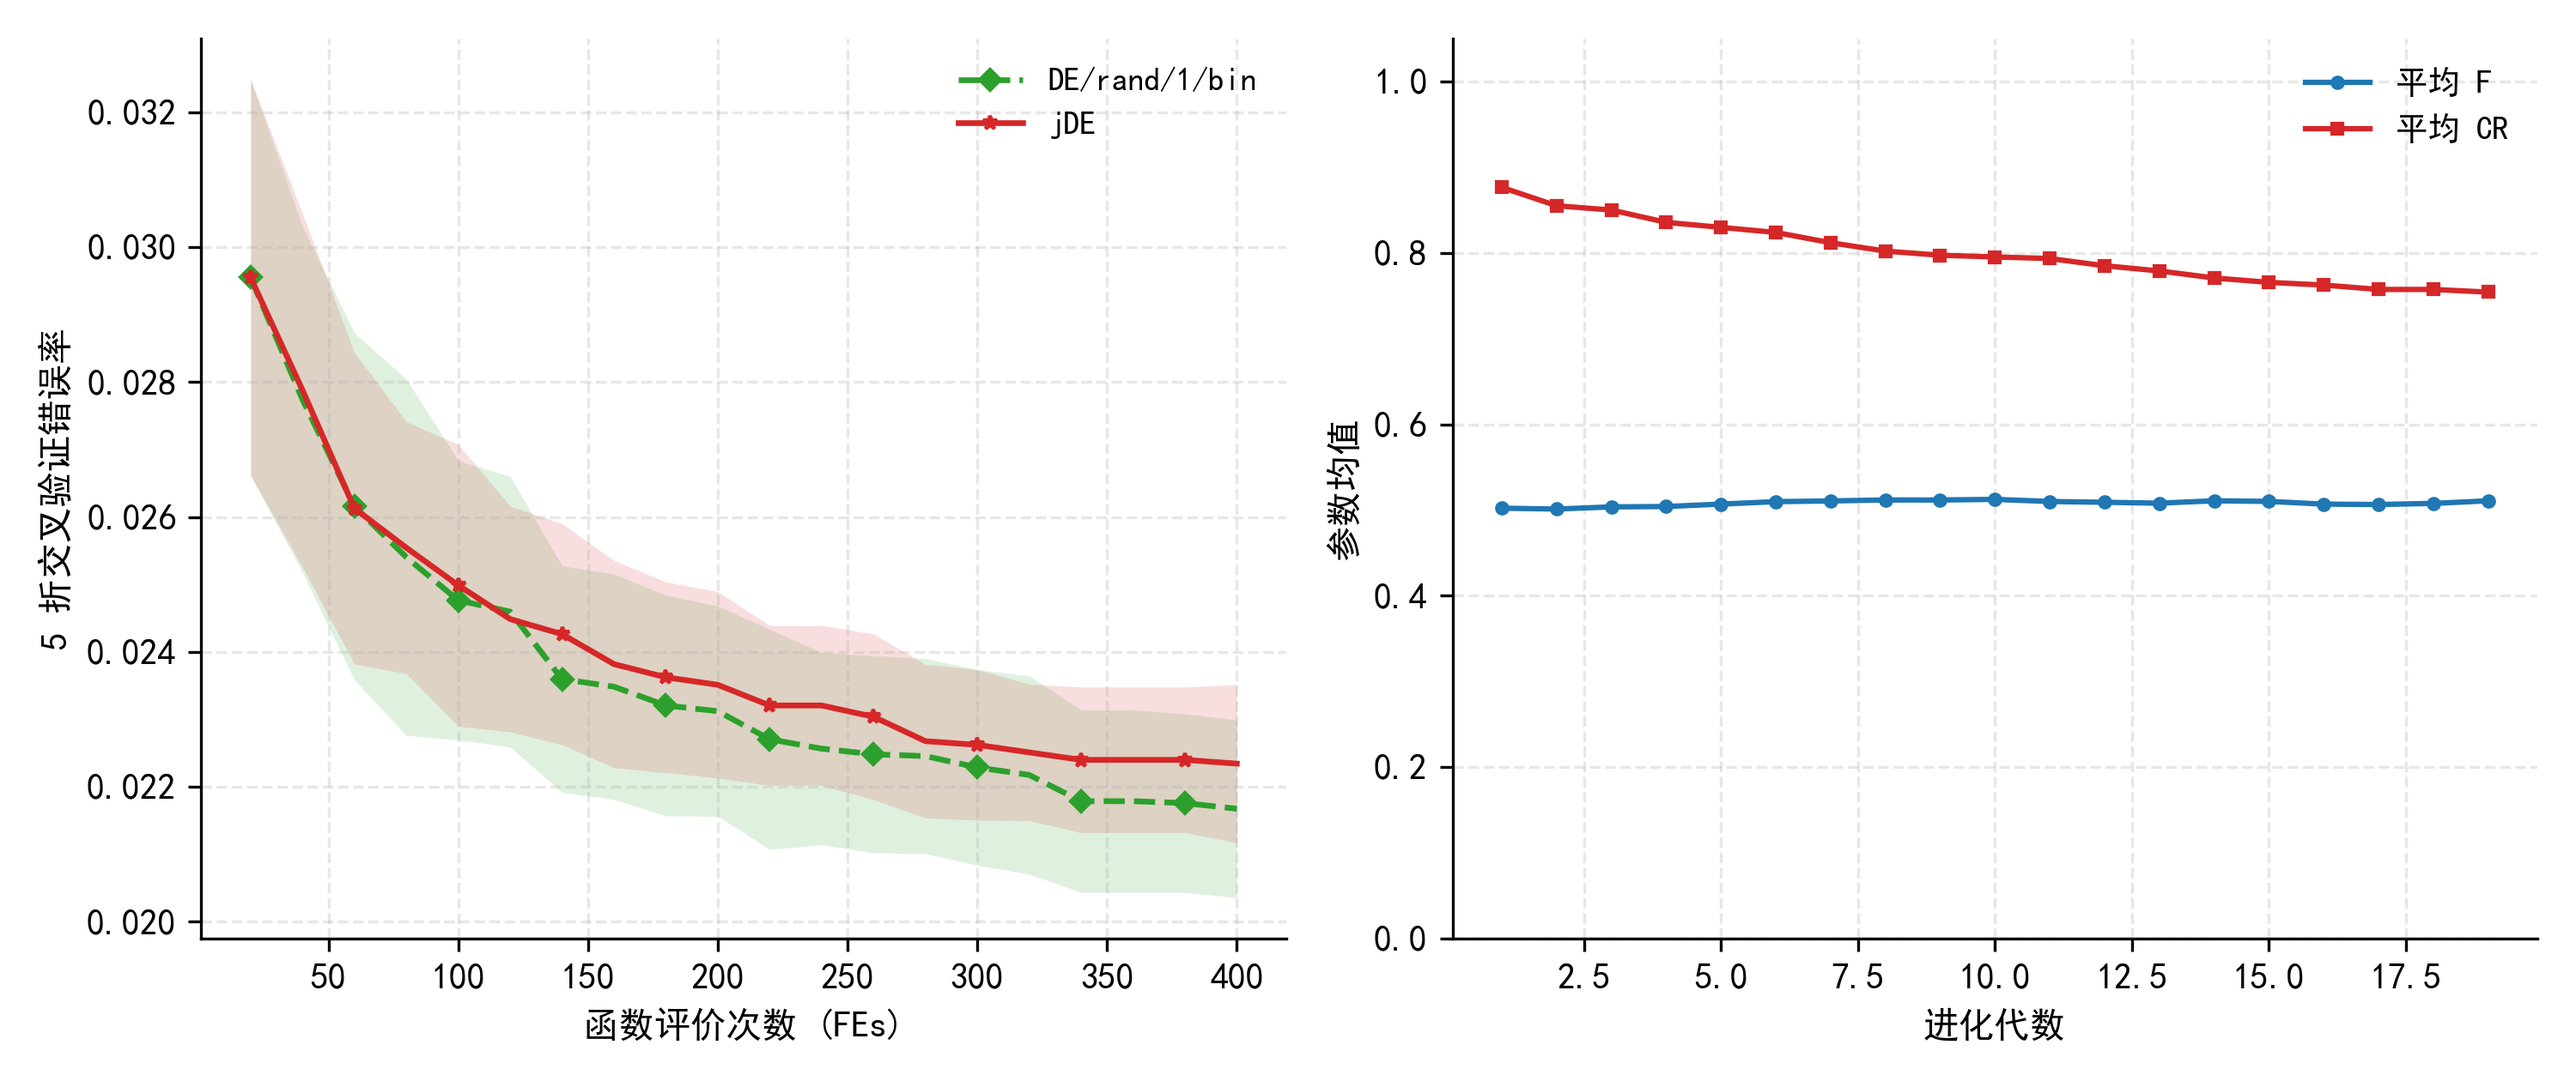
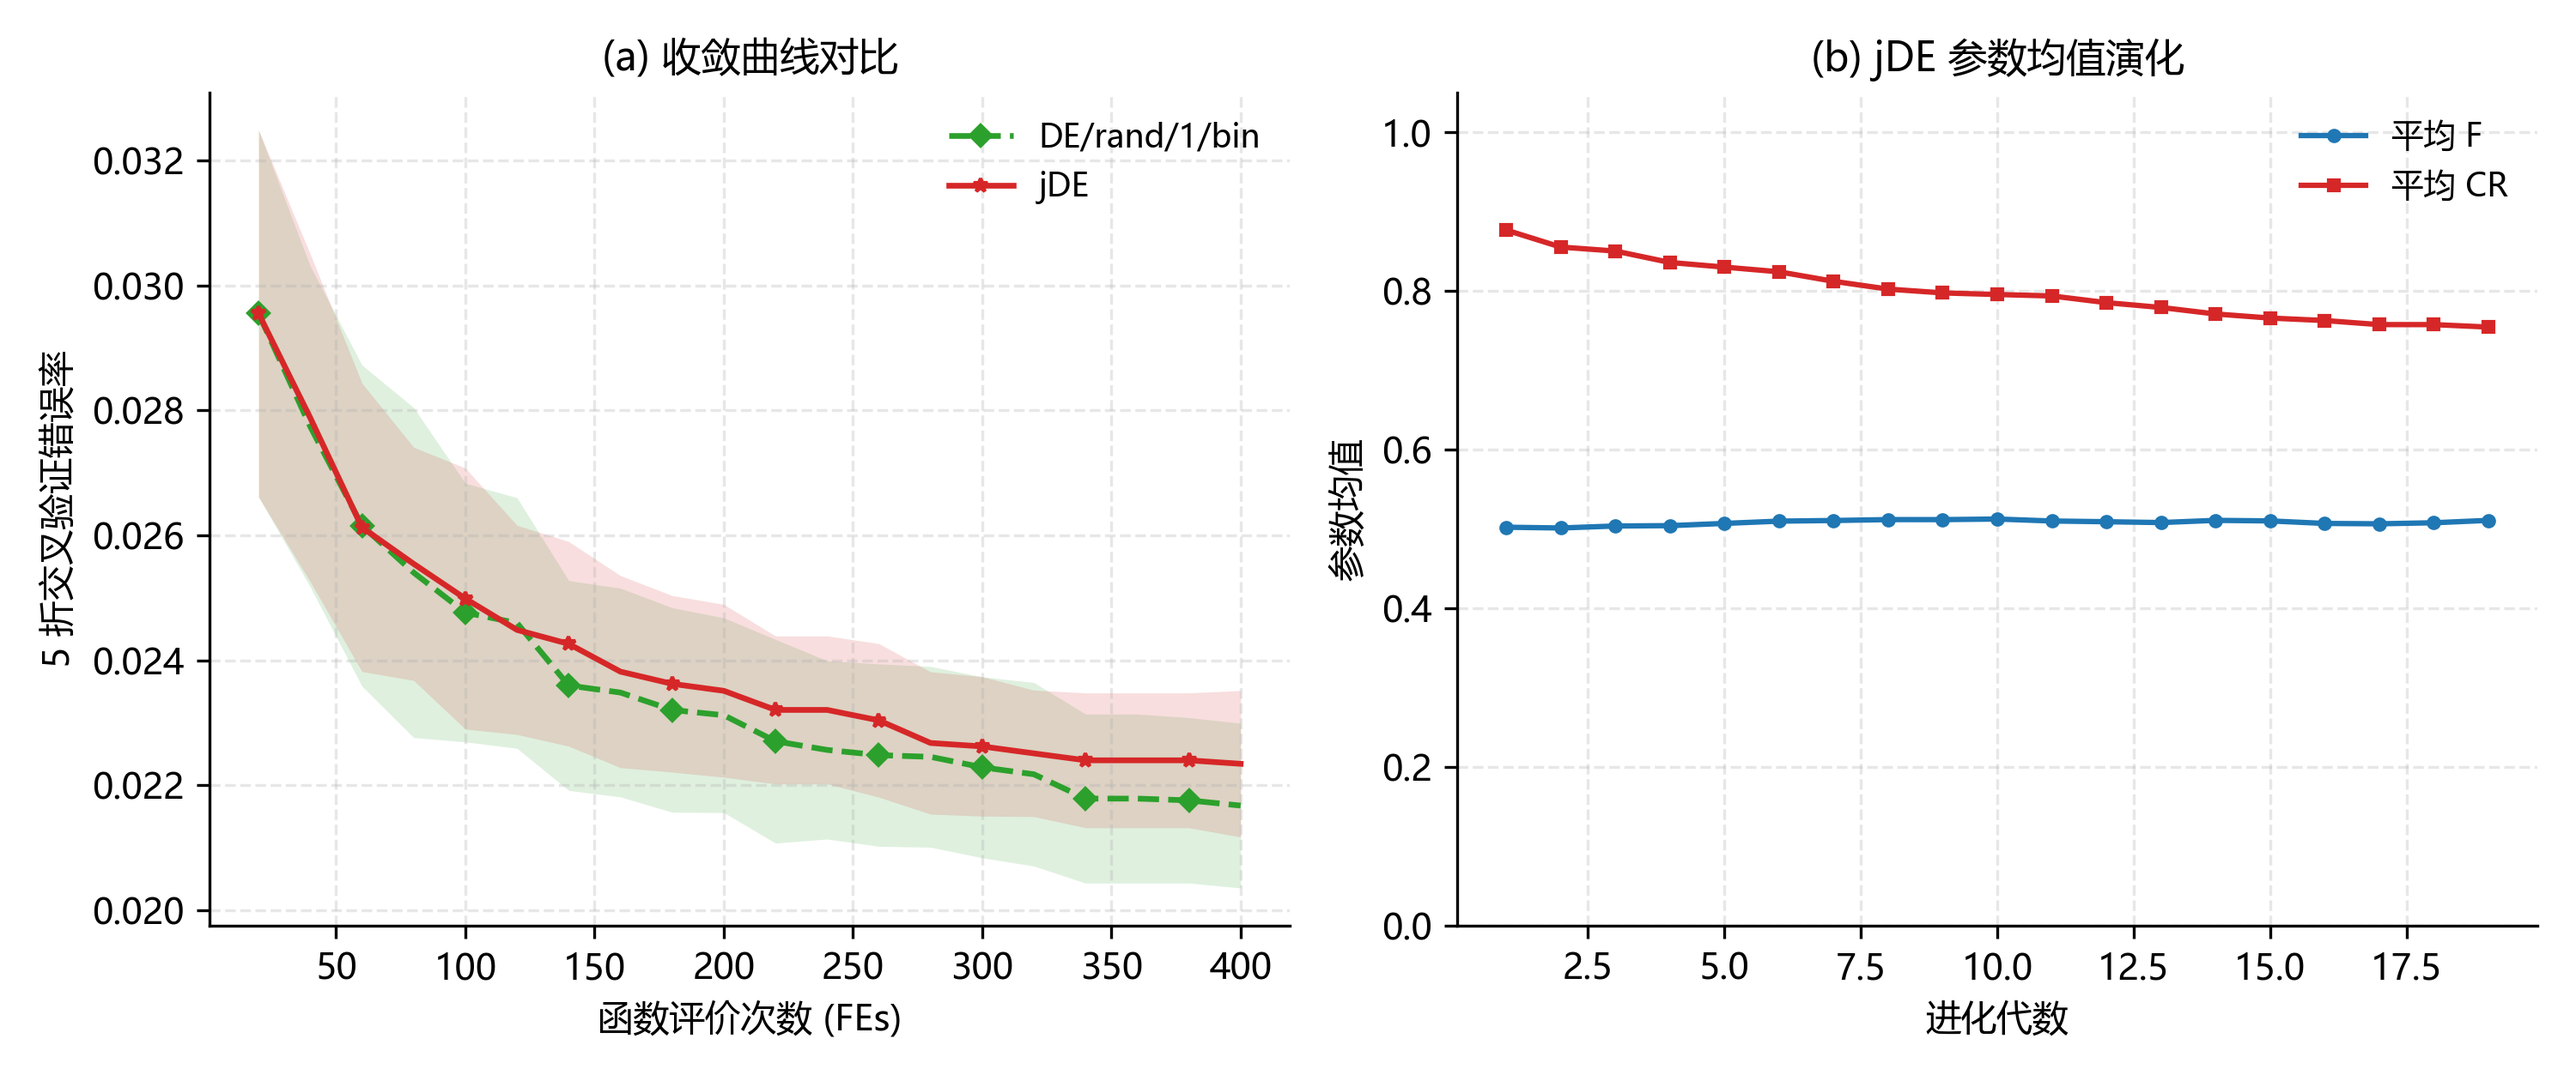
fix: isolate evaluation caches and report fair timing

diff --git a/plot_and_stats.py b/plot_and_stats.py
@@ -35,7 +35,7 @@ STYLES = {
 MAX_FES = 400
 POP_SIZE = 20
 
-plt.rcParams["font.sans-serif"] = ["SimHei", "Microsoft YaHei"]
+plt.rcParams["font.sans-serif"] = ["Microsoft YaHei", "SimHei", "Arial"]
 plt.rcParams["axes.unicode_minus"] = False
 plt.rcParams["figure.dpi"] = 120
 
@@ -45,13 +45,17 @@ def load_results():
         rows = list(csv.DictReader(handle))
     data = {algo: [] for algo in ALGOS}
     times = {algo: [] for algo in ALGOS}
+    hits = {algo: [] for algo in ALGOS}
     for row in rows:
         data[row["algorithm"]].append(float(row["best_error"]))
         times[row["algorithm"]].append(float(row["time_sec"]))
-    return {k: np.array(v) for k, v in data.items()}, {k: np.array(v) for k, v in times.items()}
+        hits[row["algorithm"]].append(int(row["cache_hits"]))
+    return ({k: np.array(v) for k, v in data.items()},
+            {k: np.array(v) for k, v in times.items()},
+            {k: np.array(v) for k, v in hits.items()})
 
 
-def make_statistics(data, times):
+def make_statistics(data, times, hits):
     ref = data["jDE"]
     rows = []
     for algo in ALGOS:
@@ -79,12 +83,13 @@ def make_statistics(data, times):
             "worst": float(vals.max()),
             "mean_time": float(times[algo].mean()),
             "std_time": float(times[algo].std(ddof=1)),
+            "mean_cache_hits": float(hits[algo].mean()),
             "p_value": p_value,
             "mark": mark,
         })
     with open(os.path.join("results", "statistics.csv"), "w", newline="", encoding="utf-8") as handle:
         fields = ["algorithm", "best", "mean", "std", "median", "worst",
-                  "mean_time", "std_time", "p_value", "mark"]
+                  "mean_time", "std_time", "mean_cache_hits", "p_value", "mark"]
         writer = csv.DictWriter(handle, fieldnames=fields)
         writer.writeheader()
         writer.writerows(rows)
@@ -153,6 +158,7 @@ def plot_ablation(history, jde_params):
         ax.fill_between(fes, mean - std, mean + std, color=COLORS[algo], alpha=0.15, linewidth=0)
     ax.set_xlabel("函数评价次数 (FEs)")
     ax.set_ylabel("5 折交叉验证错误率")
+    ax.set_title("(a) 收敛曲线对比", fontsize=11)
     ax.legend(frameon=False, fontsize=9)
     style_axis(ax)
 
@@ -165,6 +171,7 @@ def plot_ablation(history, jde_params):
     ax.set_xlabel("进化代数")
     ax.set_ylabel("参数均值")
     ax.set_ylim(0.0, 1.05)
+    ax.set_title("(b) jDE 参数均值演化", fontsize=11)
     ax.legend(frameon=False, fontsize=9)
     style_axis(ax)
 
@@ -175,12 +182,13 @@ def plot_ablation(history, jde_params):
 
 def main():
     os.makedirs("figures", exist_ok=True)
-    data, times = load_results()
-    rows = make_statistics(data, times)
-    print(f"{'algorithm':14s} {'mean':>8s} {'std':>8s} {'median':>8s} {'time':>8s} {'p':>8s} {'mark':>4s}")
+    data, times, hits = load_results()
+    rows = make_statistics(data, times, hits)
+    print(f"{'algorithm':14s} {'mean':>8s} {'std':>8s} {'median':>8s} {'time':>8s} {'hits':>6s} {'p':>8s} {'mark':>4s}")
     for row in rows:
         print(f"{row['algorithm']:14s} {row['mean']:8.4f} {row['std']:8.4f} "
-              f"{row['median']:8.4f} {row['mean_time']:8.1f} {row['p_value']:8.4f} {row['mark']:>4s}")
+              f"{row['median']:8.4f} {row['mean_time']:8.1f} {row['mean_cache_hits']:6.1f} "
+              f"{row['p_value']:8.4f} {row['mark']:>4s}")
 
     history = np.load(os.path.join("results", "convergence_history.npy"))
     jde_params = np.load(os.path.join("results", "jde_params_history.npy"))

diff --git a/main.py b/main.py
@@ -21,7 +21,7 @@ N_RUNS = 20
 POP_SIZE = 20
 MAX_FES = 400
 BASE_SEED = 2026
-N_SHARDS = 20
+N_SHARDS = 8
 ALGOS = ["RandomSearch", "RealGA", "LDIW-PSO", "DE", "jDE"]
 
 RUNNERS = {
@@ -37,6 +37,7 @@ def run_one(task):
     algo, run_id = task
     seed = BASE_SEED + run_id
     initial = problems.initial_population(seed, POP_SIZE)
+    problems.clear_eval_cache()  # 每个算法独立计时，避免共用前序算法的缓存
     start = time.perf_counter()
     result = RUNNERS[algo](seed, initial)
     elapsed = time.perf_counter() - start
@@ -52,6 +53,7 @@ def run_one(task):
         "best_h1": h1,
         "best_h2": h2,
         "time_sec": elapsed,
+        "cache_hits": problems.get_cache_hits(),
         "history": result["history"].tolist(),
         "jde_params": None if result["extra"] is None else result["extra"].tolist(),
     }
@@ -64,7 +66,8 @@ def run_shard(shard_id, n_shards):
         res = run_one(task)
         items.append(res)
         print(f"[shard {shard_id:02d} {i}/{len(tasks)}] {res['algorithm']:12s} "
-              f"run={res['run']:02d} err={res['best_error']:.4f} time={res['time_sec']:.1f}s",
+              f"run={res['run']:02d} err={res['best_error']:.4f} "
+              f"hits={res['cache_hits']:3d} time={res['time_sec']:.1f}s",
               flush=True)
     with open(os.path.join("results", f"part_{shard_id:02d}.json"), "w", encoding="utf-8") as handle:
         json.dump({"items": items}, handle, ensure_ascii=False)
@@ -92,7 +95,7 @@ def run_parent():
 
     csv_path = os.path.join("results", "raw_results.csv")
     fields = ["algorithm", "run", "seed", "best_error", "best_lr", "best_alpha",
-              "best_h1", "best_h2", "time_sec"]
+              "best_h1", "best_h2", "time_sec", "cache_hits"]
     with open(csv_path, "w", newline="", encoding="utf-8") as handle:
         writer = csv.DictWriter(handle, fieldnames=fields)
         writer.writeheader()

diff --git a/problems.py b/problems.py
@@ -21,6 +21,7 @@ X = X.astype(np.float64) / 16.0  # 像素值缩到 0~1，MLP 收敛更稳
 
 _splits_cache = {}
 _eval_cache = {}
+cache_hits = 0
 
 
 def get_splits(seed):
@@ -40,11 +41,24 @@ def decode(x):
     return lr, alpha, h1, h2
 
 
+def clear_eval_cache():
+    """每个算法任务开始前清空评价缓存，避免同分片内的算法共用前序缓存。"""
+    global _eval_cache, cache_hits
+    _eval_cache = {}
+    cache_hits = 0
+
+
+def get_cache_hits():
+    return cache_hits
+
+
 def evaluate(x, seed):
     """返回 5 折平均验证错误率；同一个 run 内重复参数直接查缓存。"""
+    global cache_hits
     lr, alpha, h1, h2 = decode(x)
     key = (seed, round(lr, 12), round(alpha, 12), h1, h2)
     if key in _eval_cache:
+        cache_hits += 1
         return _eval_cache[key]
 
     errors = []

diff --git a/README.md b/README.md
@@ -1,4 +1,4 @@
-# Evolutionary Hyperparameter Optimization for Multi-Layer Perceptron
+# Evolutionary Hyperparameter Optimization for Multi-Layer Perceptron
 
 A reproducible comparison of five search strategies for tuning a two-layer MLP on
 the scikit-learn `digits` dataset. The search space mixes continuous and integer
@@ -45,16 +45,18 @@ signed-rank test against jDE at α = 0.05 (`+` better, `−` worse, `≈` not si
 
 | Algorithm | Best | Mean ± Std | Median | Worst | Time (s) | vs jDE |
 | --- | ---: | ---: | ---: | ---: | ---: | :---: |
-| Random Search | 0.0189 | 0.0237 ± 0.0017 | 0.0236 | 0.0256 | 649.4 | − |
-| Real-coded GA | **0.0172** | **0.0213 ± 0.0021** | **0.0206** | 0.0256 | 395.8 | + |
-| LDIW-PSO | 0.0206 | 0.0220 ± 0.0011 | 0.0217 | 0.0250 | 503.9 | ≈ |
-| DE/rand/1/bin | 0.0200 | 0.0217 ± 0.0013 | 0.0211 | 0.0256 | 542.2 | + |
-| jDE | 0.0200 | 0.0223 ± 0.0012 | 0.0223 | 0.0250 | 441.9 | — |
+| Random Search | 0.0189 | 0.0237 ± 0.0017 | 0.0236 | 0.0256 | 475.1 | − |
+| Real-coded GA | **0.0172** | **0.0213 ± 0.0021** | **0.0206** | 0.0256 | 263.4 | + |
+| LDIW-PSO | 0.0206 | 0.0220 ± 0.0011 | 0.0217 | 0.0250 | 337.0 | ≈ |
+| DE/rand/1/bin | 0.0200 | 0.0217 ± 0.0013 | 0.0211 | 0.0256 | 389.5 | + |
+| jDE | 0.0200 | 0.0223 ± 0.0012 | 0.0223 | 0.0250 | 403.7 | — |
 
 Wilcoxon p-values against jDE: Random Search 0.0042, Real-coded GA 0.0290,
-LDIW-PSO 0.2179, DE 0.0458. At this small budget the individual parameter
-adaptation of jDE did **not** improve over fixed-parameter DE; the full discussion
-is in the course report.
+LDIW-PSO 0.2179, DE 0.0458. Average cache hits per run were 0.0 (Random Search),
+92.1 (Real-coded GA), 0.0 (LDIW-PSO), 1.1 (DE), and 0.9 (jDE); the GA value
+reflects repeated integer hidden-layer combinations. At this small budget the
+individual parameter adaptation of jDE did **not** improve over fixed-parameter DE;
+the full discussion is in the course report.
 
 ![Convergence curves](figures/convergence.png)
 
@@ -75,8 +77,8 @@ python plot_and_stats.py
 `main.py` runs the five strategies in parallel shards and writes
 `results/raw_results.csv`, `results/convergence_history.npy`, and
 `results/jde_params_history.npy`. `plot_and_stats.py` writes
-`results/statistics.csv` and the three figures. On a 32-core machine the full
-run takes about 46 minutes.
+`results/statistics.csv` and the three figures. The default 8-shard configuration
+takes roughly 70–80 minutes on a 32-core machine; single-run times are 263–475 s.
 
 ## Notes on Reproducibility
 
